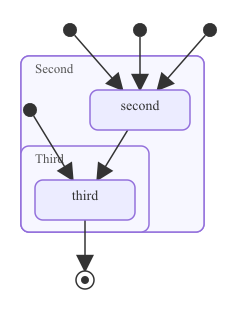
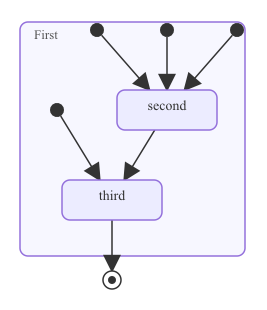
state: fix nested composite bbox computation
layoutCompositeBoxes now computes composite boxes bottom-up so each
composite encloses its immediate children only. Direct leaf children
contribute their layout node position; direct composite children
contribute their pre-computed box. This prevents ancestor composites
from degenerating to the same bbox as their deepest descendant.

Before: First, Second, Third all had identical coordinates.
After: First encloses Second, which encloses Third.

diff --git a/pkg/renderer/state/renderer.go b/pkg/renderer/state/renderer.go
@@ -421,20 +421,26 @@ const (
 )
 
 // layoutCompositeBoxes computes the bounding rect for each composite
-// state by walking the layout positions of its leaf descendants.
-// Multi-region composites also produce a per-region bbox slice that
-// renderCompositeBoxes uses to draw dashed dividers.
-//
-// Walks recursively so nested composites each get their own box.
+// state bottom-up so nested composites are sized from their own
+// children rather than all deepest leaves. This prevents ancestor
+// composites from degenerating to the same bbox as their deepest
+// descendant.
 func layoutCompositeBoxes(states []diagram.StateDef, l *layout.Result, pad, fontSize float64, ruler *textmeasure.Ruler) []placedComposite {
+	// boxByID stores the placed composite for every composite state so
+	// parent composites can include their children's boxes.
+	boxByID := make(map[string]placedComposite)
 	var out []placedComposite
+
 	var walk func([]diagram.StateDef)
 	walk = func(ss []diagram.StateDef) {
 		for _, s := range ss {
 			if len(s.Children) == 0 {
 				continue
 			}
-			bb := childrenBBox(s, l, pad)
+			// Compute child composites first (bottom-up).
+			walk(s.Children)
+
+			bb := compositeBBox(s, l, pad, boxByID)
 			if bb.Empty() {
 				continue
 			}
@@ -451,56 +457,65 @@ func layoutCompositeBoxes(states []diagram.StateDef, l *layout.Result, pad, font
 			if len(s.Regions) > 1 {
 				regionBBoxes = make([]svgutil.BBox, 0, len(s.Regions))
 				for _, region := range s.Regions {
-					rb := svgutil.NewInfiniteBBox()
-					accumulateLeafBBox(region, l, pad, &rb)
+					rb := regionBBox(region, l, pad, boxByID)
 					if !rb.Empty() {
 						regionBBoxes = append(regionBBoxes, rb)
 					}
 				}
 			}
-		out = append(out, placedComposite{
-			def: s, x: x, y: y, w: w, h: h, regions: regionBBoxes,
-			leafBB: bb,
-		})
-		walk(s.Children)
+			p := placedComposite{
+				def: s, x: x, y: y, w: w, h: h, regions: regionBBoxes,
+				leafBB: bb,
+			}
+			boxByID[s.ID] = p
+			out = append(out, p)
 		}
 	}
 	walk(states)
 	return out
 }
 
-func containsIDDeep(s diagram.StateDef, id string) bool {
-	if s.ID == id {
-		return true
-	}
-	for _, c := range s.Children {
-		if containsIDDeep(c, id) {
-			return true
-		}
-	}
-	return false
-}
-
-
-// childrenBBox accumulates the bbox of all leaf descendants of s.
-// Falls back to flattening Regions when Children is empty — defends
-// against AST callers that populated only Regions.
-func childrenBBox(s diagram.StateDef, l *layout.Result, pad float64) svgutil.BBox {
+// compositeBBox builds the bbox of a composite from its immediate
+// children only: direct leaves use their layout position; direct
+// composites use their already-computed box.
+func compositeBBox(s diagram.StateDef, l *layout.Result, pad float64, boxByID map[string]placedComposite) svgutil.BBox {
 	bb := svgutil.NewInfiniteBBox()
-	if len(s.Children) > 0 {
-		accumulateLeafBBox(s.Children, l, pad, &bb)
-	} else {
+	sources := s.Children
+	if len(sources) == 0 {
 		for _, region := range s.Regions {
-			accumulateLeafBBox(region, l, pad, &bb)
+			rb := regionBBox(region, l, pad, boxByID)
+			if !rb.Empty() {
+				bb.Expand((rb.MinX+rb.MaxX)/2, (rb.MinY+rb.MaxY)/2, rb.MaxX-rb.MinX, rb.MaxY-rb.MinY)
+			}
 		}
+		return bb
+	}
+	for _, c := range sources {
+		if len(c.Children) > 0 {
+			// Composite child: include its pre-computed box.
+			if childBox, ok := boxByID[c.ID]; ok {
+				bb.Expand(childBox.x+childBox.w/2, childBox.y+childBox.h/2, childBox.w, childBox.h)
+			}
+			continue
+		}
+		// Leaf child: include its layout node.
+		n, ok := l.Nodes[c.ID]
+		if !ok {
+			continue
+		}
+		bb.Expand(n.X+pad, n.Y+pad, n.Width, n.Height)
 	}
 	return bb
 }
 
-func accumulateLeafBBox(states []diagram.StateDef, l *layout.Result, pad float64, bb *svgutil.BBox) {
-	for _, c := range states {
+// regionBBox mirrors compositeBBox for a parallel-region slice.
+func regionBBox(region []diagram.StateDef, l *layout.Result, pad float64, boxByID map[string]placedComposite) svgutil.BBox {
+	bb := svgutil.NewInfiniteBBox()
+	for _, c := range region {
 		if len(c.Children) > 0 {
-			accumulateLeafBBox(c.Children, l, pad, bb)
+			if childBox, ok := boxByID[c.ID]; ok {
+				bb.Expand(childBox.x+childBox.w/2, childBox.y+childBox.h/2, childBox.w, childBox.h)
+			}
 			continue
 		}
 		n, ok := l.Nodes[c.ID]
@@ -509,6 +524,7 @@ func accumulateLeafBBox(states []diagram.StateDef, l *layout.Result, pad float64
 		}
 		bb.Expand(n.X+pad, n.Y+pad, n.Width, n.Height)
 	}
+	return bb
 }
 
 // renderCompositeBoxes emits the labelled rounded rect plus optional
